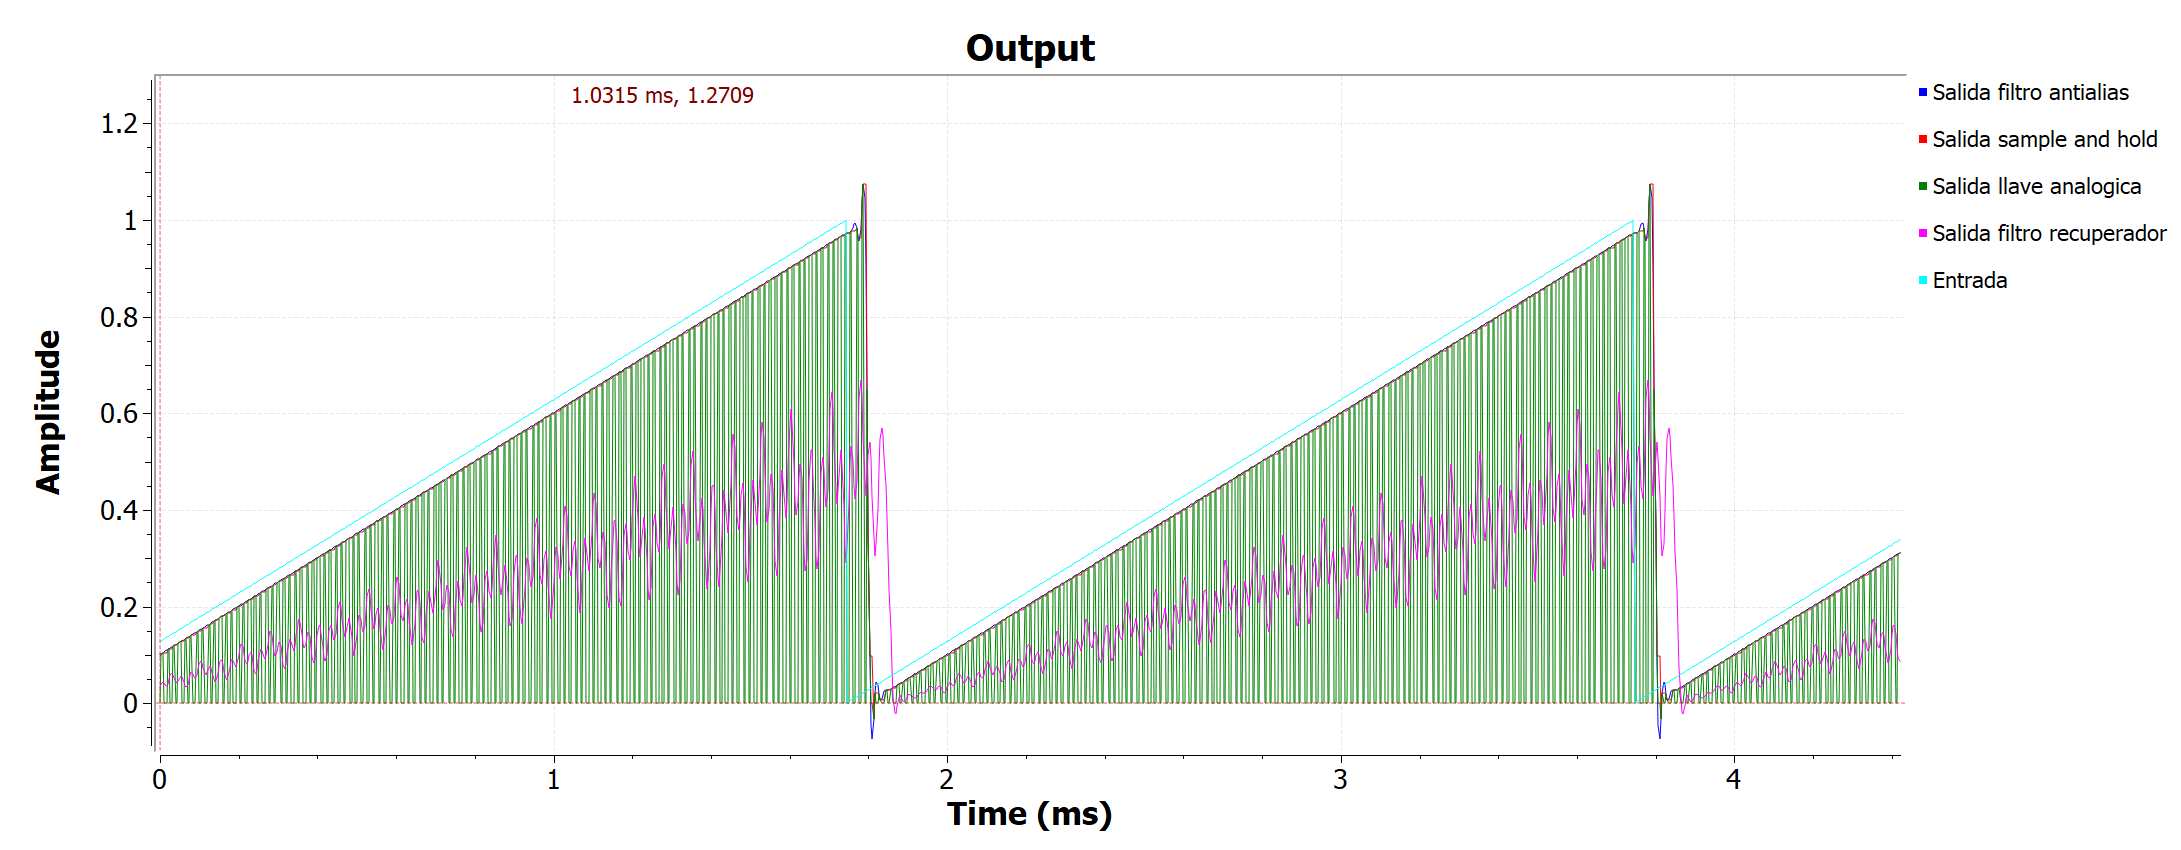
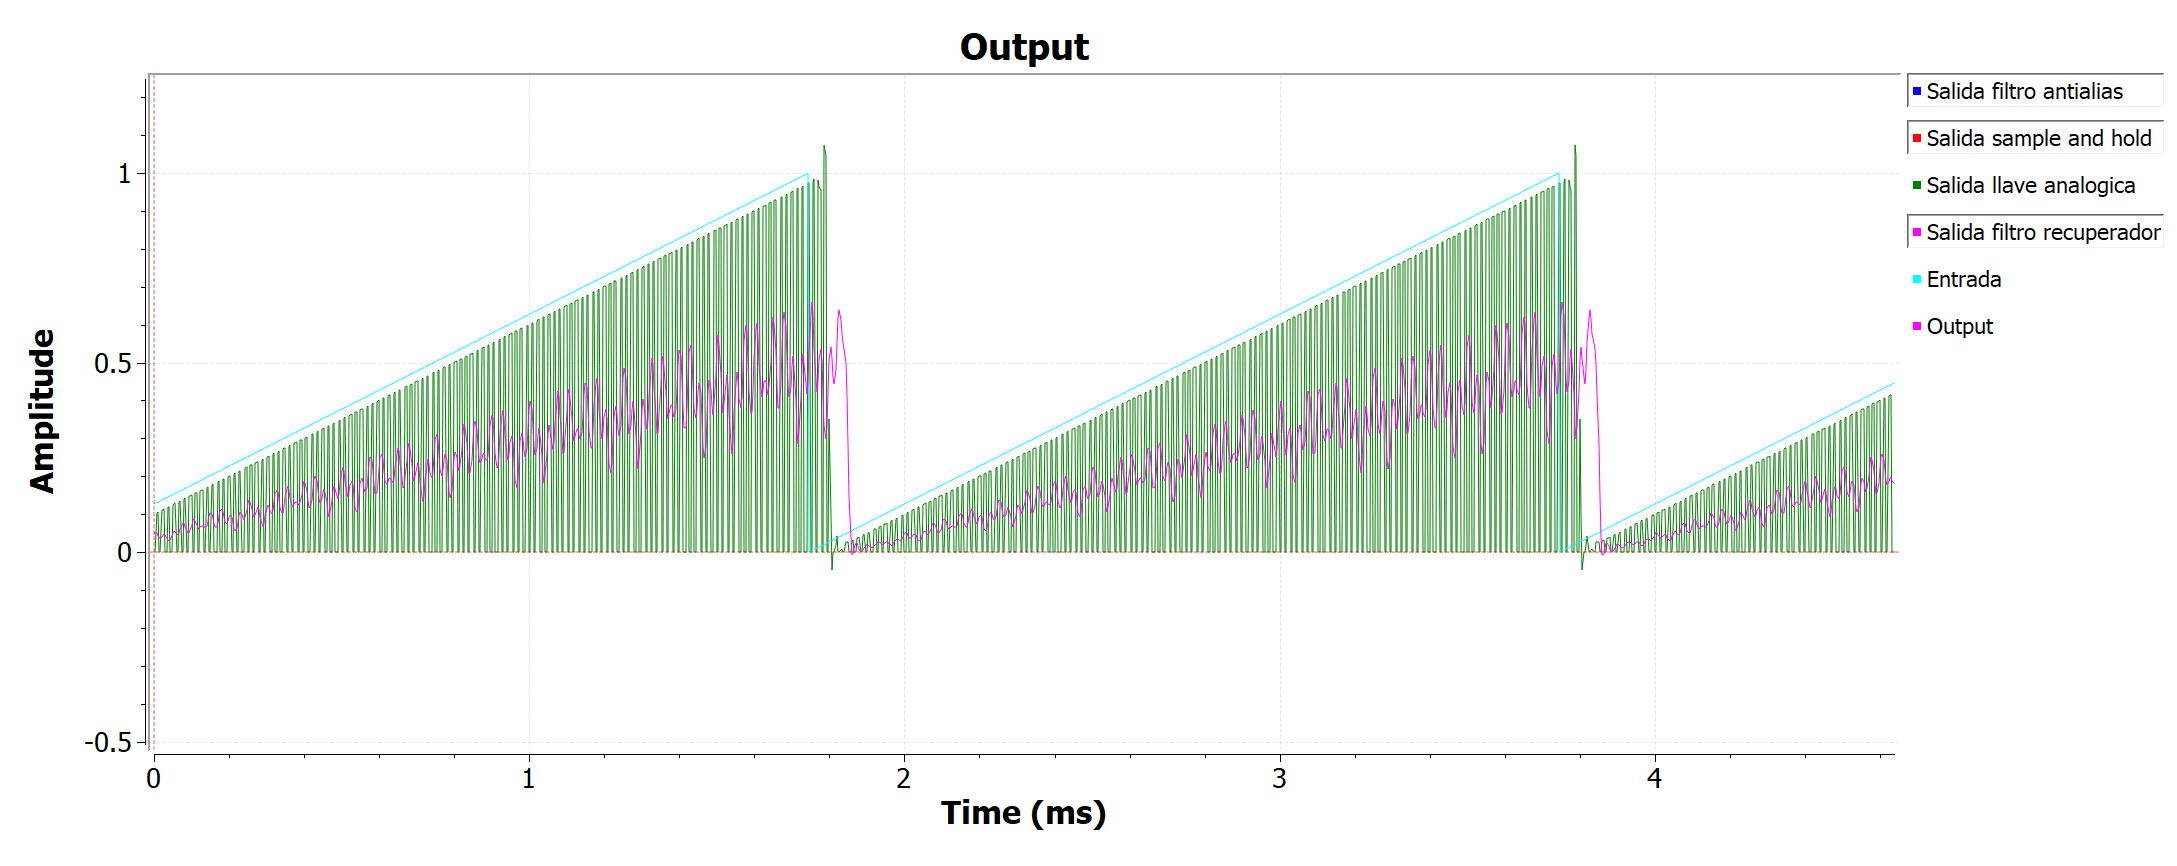
informe mediciones listo

diff --git a/mediciones_basicas/informe/mediciones_basicas.tex b/mediciones_basicas/informe/mediciones_basicas.tex
@@ -46,15 +46,15 @@ $X_{b}$; salida con $X_{c}$}
 \end{figure}
 
 Para la señal $X_{a}$, los valores óptimos que se obtuvieron fueron:
-$f_{s}:[76,3;313](kHz)$midiendo en el máximo de ese intervalo, $DC=48.5\%,$$A:(0;2]$(Vpp)
+$f_{s}:[76,3;313](kHz)$midiendo en el máximo de ese intervalo, $DC=48.5\%,$$A:(0;1]$(Vpp)
 midiendo para $A=1V_{pp}$.
 
 Para la señal $X_{b}$, los valores óptimos obtenidos fueron: $f_{s}:[91;313](kHz)$midiendo
-en el máximo de ese intervalo, $DC=48.8\%,$$A:(0;2]$(Vpp) midiendo
+en el máximo de ese intervalo, $DC=48.8\%,$$A:(0;1]$(Vpp) midiendo
 para $A=1V_{pp}$.
 
 Para la señal $X_{c}$, los valores óptimos obtenidos fueron: $f_{s}:[80;300](kHz)$midiendo
-en la frecuencia de 140kHz perteneciente a ese intervalo, $DC=49.8\%,$$A:(0;2]$(Vpp)
+en la frecuencia de 140kHz perteneciente a ese intervalo, $DC=49.8\%,$$A:(0;1]$(Vpp)
 midiendo para $A=1V_{pp}$.
 
 Para realizar un análisis más completo, hemos realizado una simulación
@@ -79,8 +79,8 @@ A primera vista, podemos ver como se aprecian ciertas diferencias
 entre el modelo teórico y el resultante en la práctica. Primero, observamos
 como en el modelo teórico, la señal parece tener un ripple que el
 osciloscopio no muestra, esto se debe a que en efecto en el modelo
-teórico la recuperación de la señal está dada por funciones $\delta$,
-mientras que en la placa se obtienen funciones sincs lo que hace que
+teórico la recuperación de la señal se modeliza de manera ideal y por ende está dada por funciones $\delta$,
+mientras que en la medición no es posible obtener dichas funciones, por lo que a la hora de recuperar la función vamos a realizarlo a través de funciones sincs lo que hace que
 aparezcan más valores.
 
 \subsection{Cambios en la $f_{in}$ y en la $f_{s}$}
@@ -113,7 +113,7 @@ Los resultados se ven plasmados en la siguiente image:
 
 Si contrastamos con las simulaciones pertinentes, las cuales se muestran
 a continuación, no se observan diferencias significativas, más alla
-de la intensificación del ripple en la salida, y de la atenuación
+de la intensificación del ripple en la salida explicada anteriormente en la sección del filtro; y de la atenuación
 pertinente que sufre cada señal.
 
 \begin{figure}[H]
@@ -155,7 +155,7 @@ lo cierto es que en ambos casos la señal saliente resulta nula para
 el caso de la senoidal, e igualmente para el caso de la función rampa
 con la salvedad de que en vista de que el contenido armónico es mayor,
 no es exactamente cero lo que se aprecia, sino que se tiene algo de
-ruido a la salida.
+ruido a la salida. Esto se debe principalmente a que el filtro tanto de antialiasing como el recuperador atenúan la señal que ingresa, por lo que el espectro saliente y recuperado resulta ser prácticamente nulo.
 
 \begin{figure}[H]
 
@@ -193,7 +193,7 @@ A la hora de contrastar con la simulación, notamos que se obtiene
 la misma forma de la señal en ambos casos, solo que en la simulación
 la señal queda definida positivamente, a diferencia de lo que ocurre
 en el osciloscopio. Esto se debe a que la simulación no contempla
-el desfasaje que el filtro le inyecta a las distintas frecuencias.
+el desfasaje que el filtro real le inyecta a las distintas frecuencias, según su respuesta en frecuencia.
 
 \subsection{Aliasing}
 
@@ -281,8 +281,8 @@ imagenes:
 Podemos ver como lo obtenido en las mediciones no discrepan con las
 simulaciones. Si acaso podemos destacar que para la función rampa
 simulada no se aprecia un ripple montado sobre sí, lo cual puede ser
-explicado desde las falencias de nuestro filtro mencionadas previamente
-en este trabajo práctico.
+explicado no solo desde las falencias de nuestro filtro mencionadas previamente
+en este trabajo práctico sino también por el contenido armónico que sale del mismo el cual lógicamente es menor.
 
 \subsection{Cambios en la $f_{in}$ y en la $f_{s}$}
 
@@ -391,7 +391,7 @@ Ahora simulando el caso en la GUI, obtenemos:
 
 Nuevamente, al igual que en el insciso en el cual usamos la llave
 analógica, la forma de la función resultante es la misma con la salvedad
-que posee otro desfasaje.
+que posee otro desfasaje puesto que la simulación no contempla los desfasajes de la respuesta en frecuencia del filtro.
 
 \subsection{Aliasing}
 
